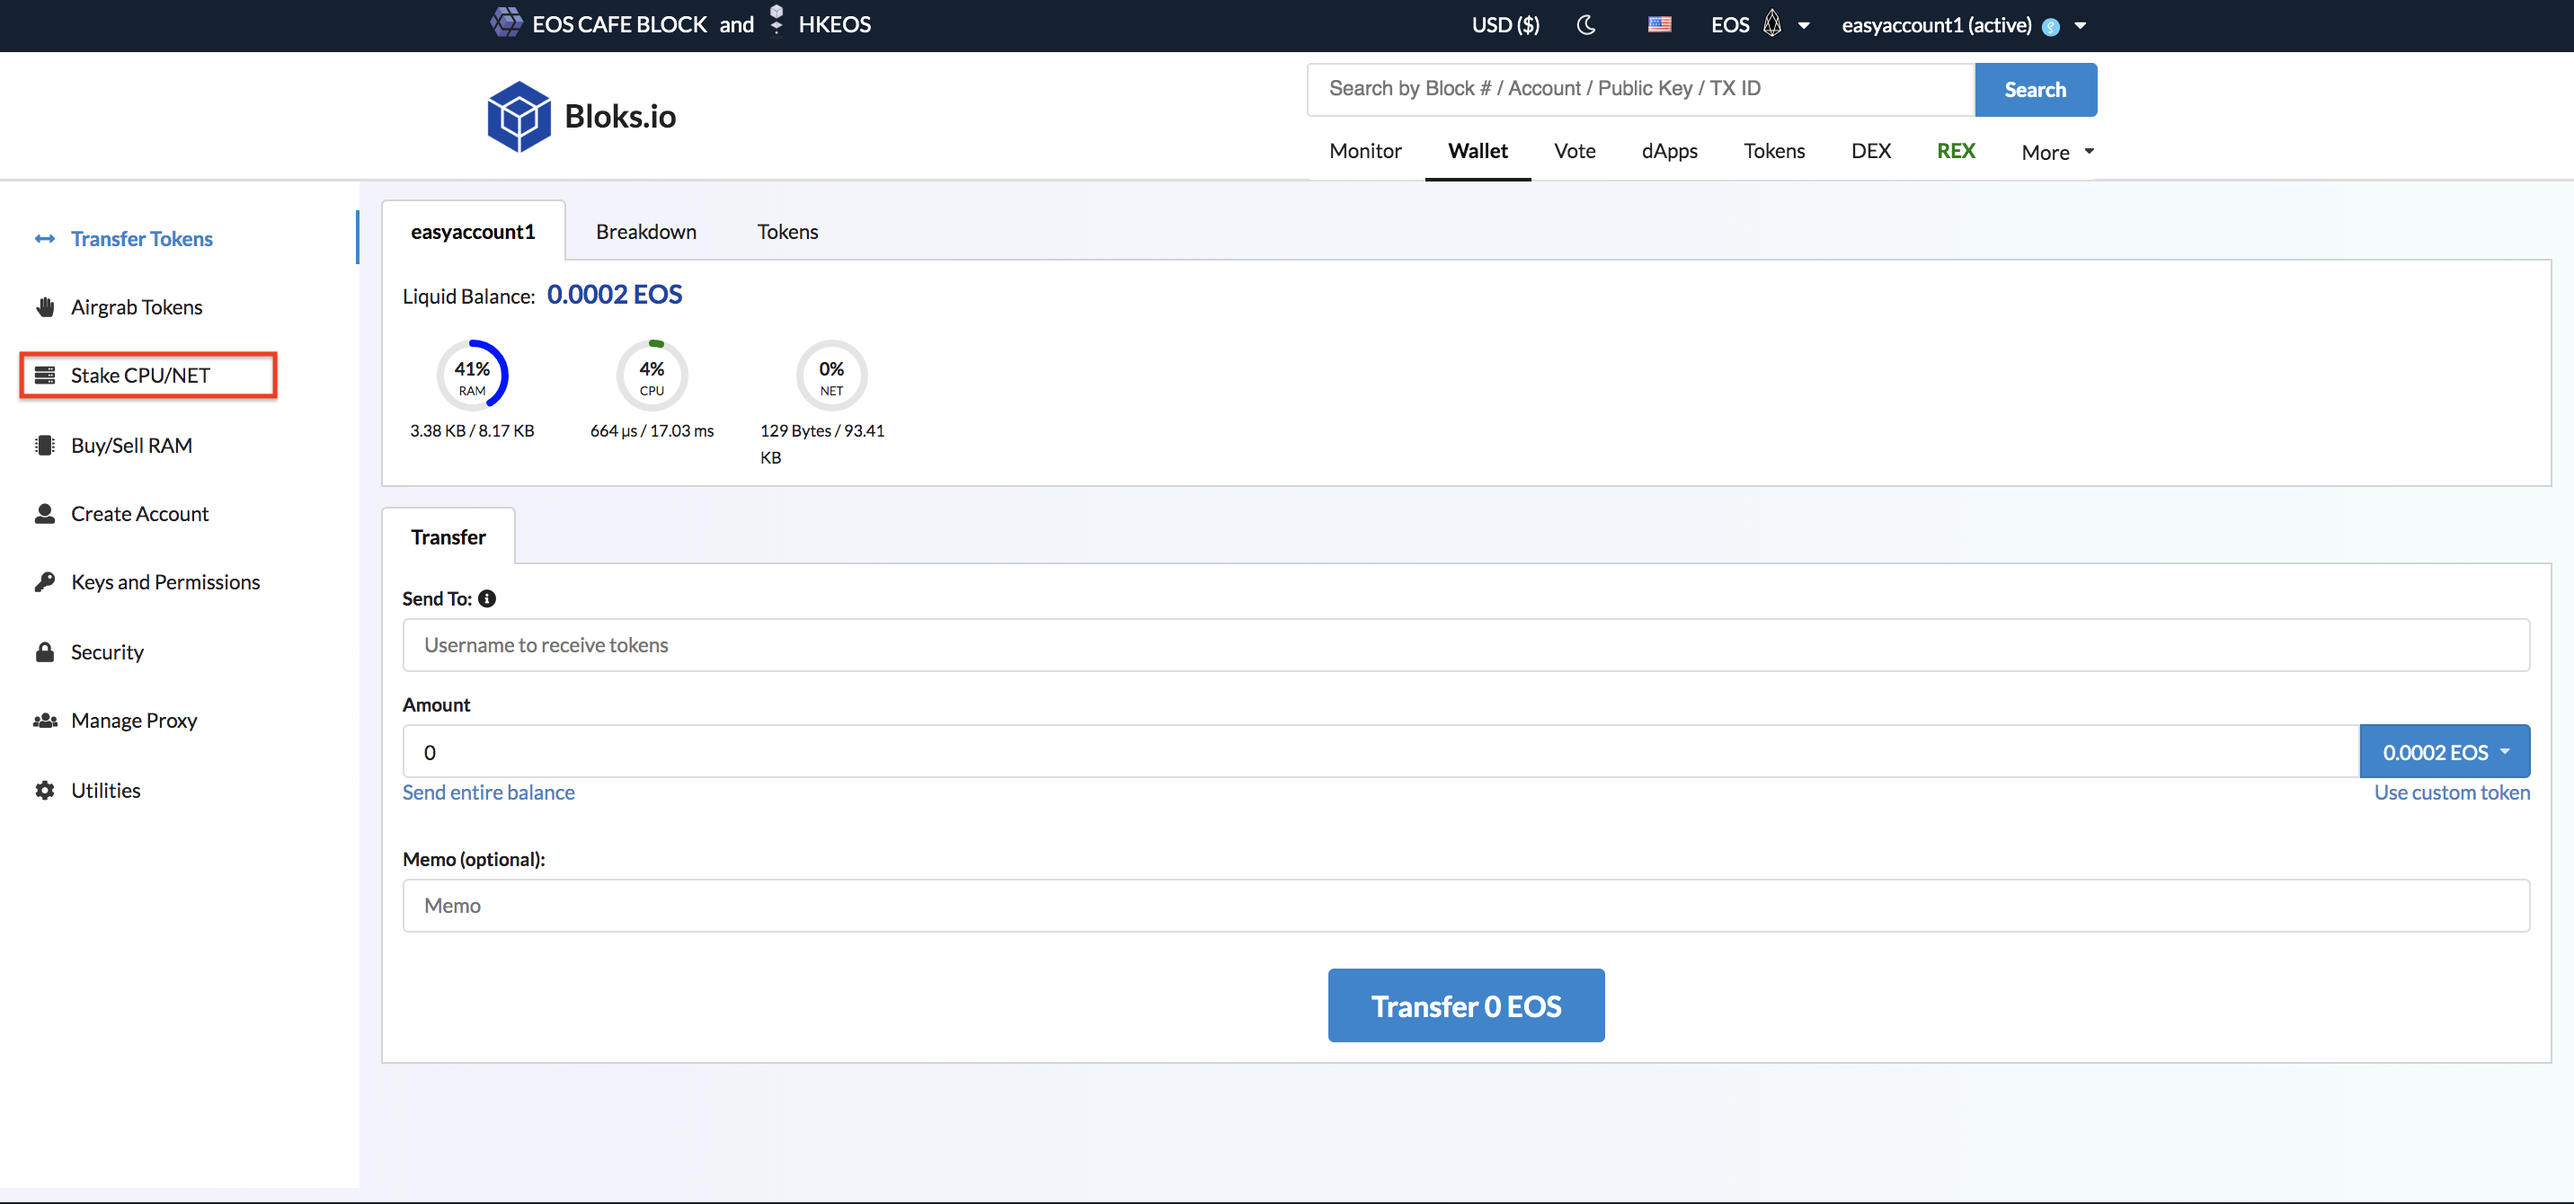
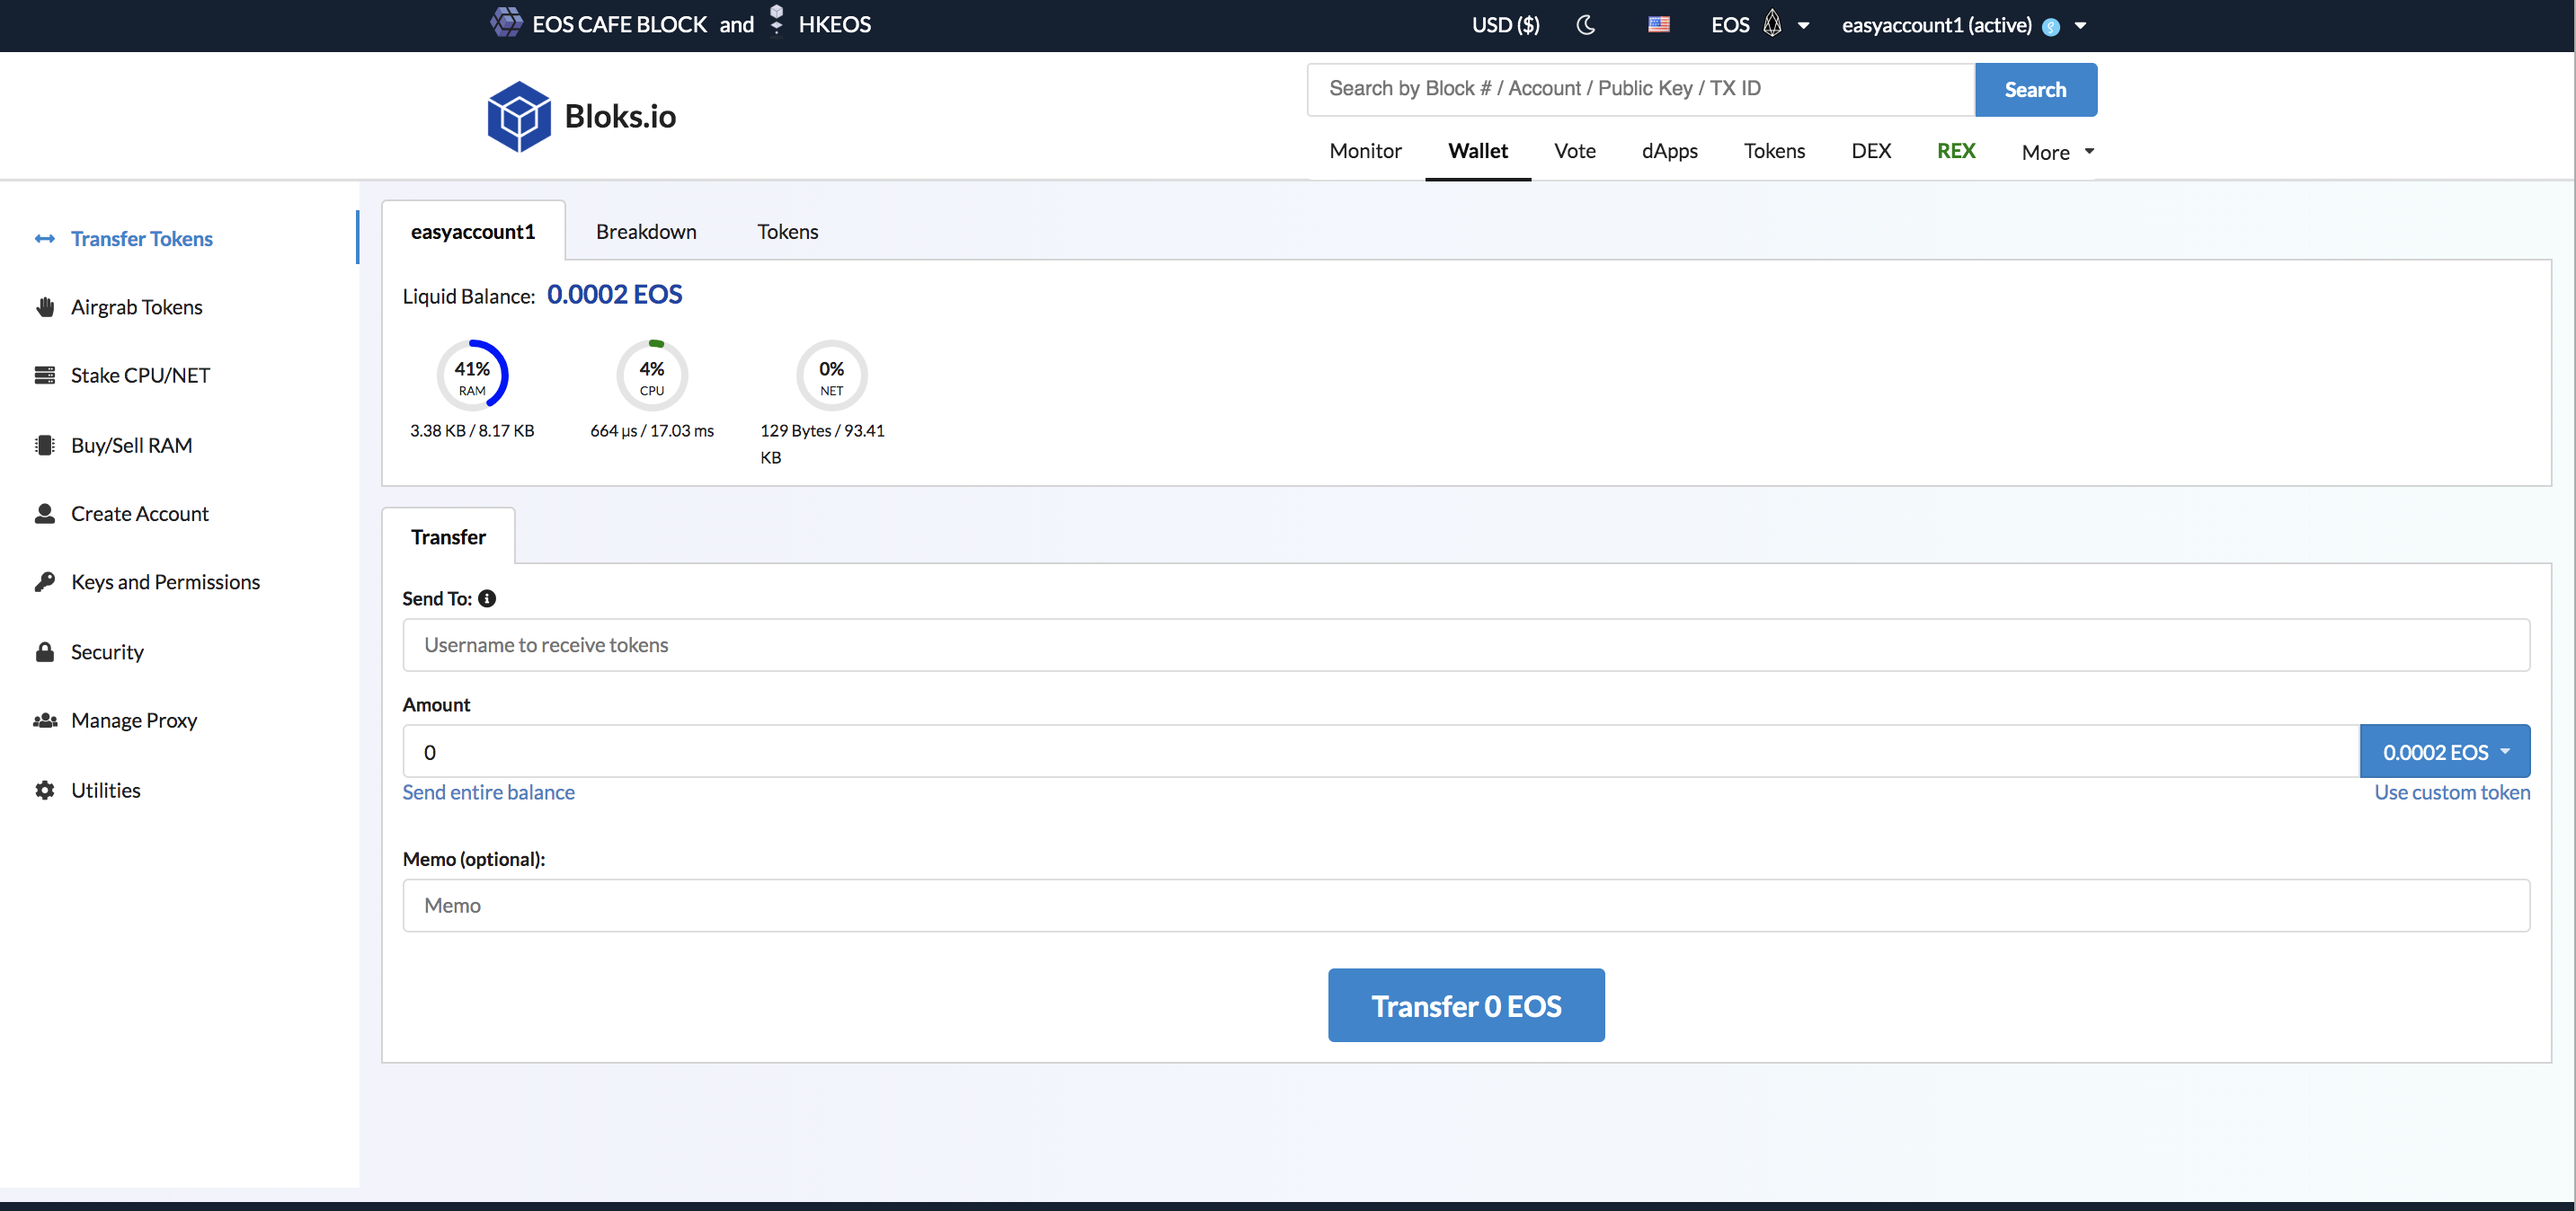
GitBook: [master] 10 pages and 4 assets modified

diff --git a/SUMMARY.md b/SUMMARY.md
@@ -8,12 +8,14 @@
 * [Desktop Wallets](login/desktop-wallets/README.md)
   * [Scatter](login/desktop-wallets/scatter.md)
   * [Ledger](login/desktop-wallets/ledger.md)
+  * [SimplEOS](login/desktop-wallets/simpleos.md)
+  * [Keycat](login/desktop-wallets/keycat.md)
 * [Mobile Wallets](login/mobile-wallets/README.md)
-  * [SimplEOS](login/mobile-wallets/simpleos.md)
+  * [NovaWallet](login/mobile-wallets/novawallet.md)
+  * [TokenPocket](login/mobile-wallets/tokenpocket.md)
   * [Meetone](login/mobile-wallets/meetone.md)
   * [Lynx](login/mobile-wallets/lynx.md)
 * [Untitled](login/untitled.md)
-* [Keycat](login/keycat.md)
 * [Untitled](login/untitled-1.md)
 
 ## Wallet

diff --git a/wallet/staking-+-unstaking.md b/wallet/staking-+-unstaking.md
@@ -14,7 +14,7 @@ The process of unstaking your EOS takes a **total of 72 hours** from the moment 
 
 ### 2. Select **Stake CPU/NET** from the left side menu.
 
-![](../.gitbook/assets/image%20%2817%29.png)
+![](../.gitbook/assets/image%20%2819%29.png)
 
 ### 3. If you are logged into your account via a wallet supported by Bloks \(Scatter, Ledger, etc.\), the field Receiver of Stake should be autofilled.
 

diff --git a/login/mobile-wallets/README.md b/login/mobile-wallets/README.md
@@ -1,2 +1,8 @@
 # Mobile Wallets
 
+Mobile wallets allow you to access your EOS accounts on your phone. Some of these wallets are integrated on Bloks.io to allow you to login to Bloks using the wallets.
+
+
+
+![](../../.gitbook/assets/image%20%2818%29.png)
+

diff --git a/login/desktop-wallets/README.md b/login/desktop-wallets/README.md
@@ -1,4 +1,6 @@
 # Desktop Wallets
 
-Desktop wallets are wallets 
+Desktop wallets are wallets that you can access through your computer. Desktop wallets that are currently compatible with Bloks.io are;
 
+* Scatter
+* 

diff --git a/login/mobile-wallets/tokenpocket.md b/login/mobile-wallets/tokenpocket.md
@@ -1,0 +1,2 @@
+# TokenPocket
+

diff --git a/login/mobile-wallets/novawallet.md b/login/mobile-wallets/novawallet.md
@@ -1,0 +1,2 @@
+# NovaWallet
+
